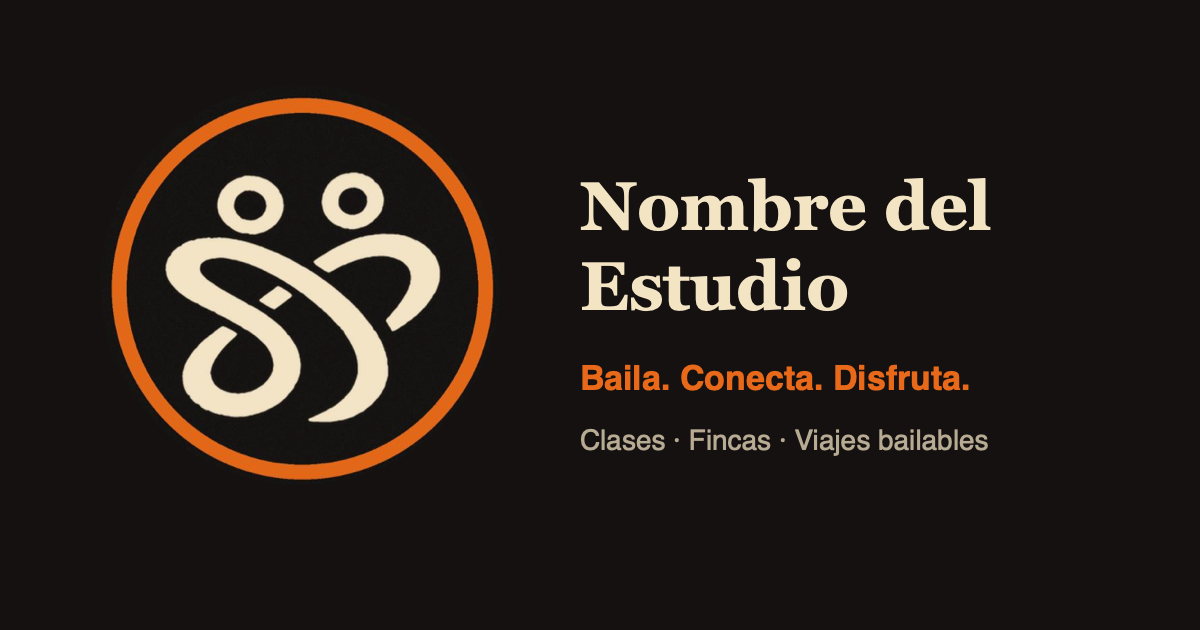
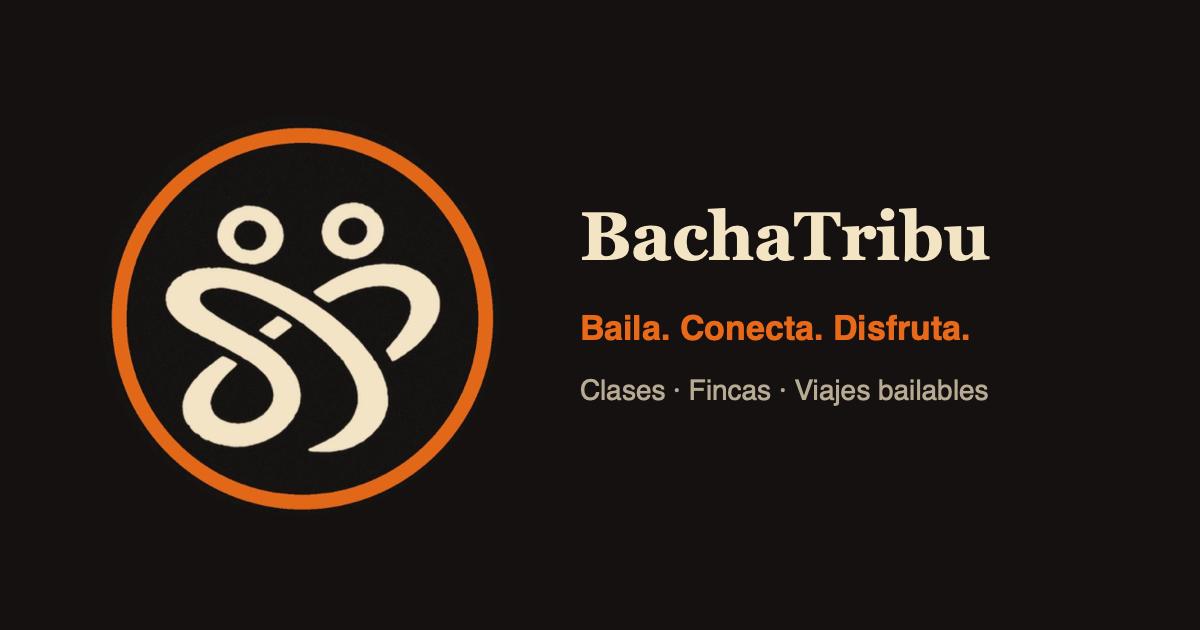
feat: renombrar a BachaTribu y usar el nombre como título principal

diff --git a/index.html b/index.html
@@ -3,7 +3,7 @@
 <head>
   <meta charset="utf-8">
   <meta name="viewport" content="width=device-width, initial-scale=1">
-  <title>Clases de baile, fincas y viajes bailables en Colombia | Nombre del Estudio</title>
+  <title>BachaTribu | Clases de baile, fincas y viajes bailables en Colombia</title>
   <meta name="description" content="Clases de salsa y bachata, planes bailables en fincas de Antioquia, socials en Bogotá y Cali, y viajes a Argentina, República Dominicana y Brasil. Agenda en Google Calendar.">
   <meta name="robots" content="index, follow, max-image-preview:large">
   <meta name="theme-color" content="#141110">
@@ -13,14 +13,14 @@
 
   <meta property="og:type" content="website">
   <meta property="og:locale" content="es_CO">
-  <meta property="og:site_name" content="Nombre del Estudio">
+  <meta property="og:site_name" content="BachaTribu">
   <meta property="og:title" content="Clases de baile, fincas y viajes bailables en Colombia">
   <meta property="og:description" content="Salsa, bachata, fincas en Antioquia, socials en Bogotá y Cali y viajes internacionales para bailar.">
   <meta property="og:url" content="https://miguelbp80.github.io/bachatribu/">
   <meta property="og:image" content="https://miguelbp80.github.io/bachatribu/assets/og-image.png">
   <meta property="og:image:width" content="1200">
   <meta property="og:image:height" content="630">
-  <meta property="og:image:alt" content="Logo de Nombre del Estudio">
+  <meta property="og:image:alt" content="Logo de BachaTribu">
   <meta name="twitter:card" content="summary_large_image">
   <meta name="twitter:title" content="Clases de baile, fincas y viajes bailables en Colombia">
   <meta name="twitter:description" content="Salsa, bachata, fincas en Antioquia, socials en Bogotá y Cali y viajes internacionales para bailar.">
@@ -30,7 +30,7 @@
   {
     "@context": "https://schema.org",
     "@type": "DanceSchool",
-    "name": "Nombre del Estudio",
+    "name": "BachaTribu",
     "description": "Clases de baile, planes en fincas de Antioquia, eventos nacionales y viajes bailables internacionales.",
     "url": "https://miguelbp80.github.io/bachatribu/",
     "logo": "https://miguelbp80.github.io/bachatribu/assets/logo.png",
@@ -47,7 +47,7 @@
   <header class="site-header">
     <a class="brand" href="#inicio" aria-label="Inicio">
       <span class="logo-circle"><img src="assets/logo.png" alt="" width="48" height="48"></span>
-      <span class="brand-name" id="studio-name">Nombre del Estudio</span>
+      <span class="brand-name" id="studio-name">BachaTribu</span>
     </a>
     <nav class="site-nav" aria-label="Principal">
       <a href="#eventos">Eventos</a>
@@ -59,8 +59,8 @@
 
   <main>
     <section class="hero" id="inicio">
-      <span class="logo-circle logo-circle--hero"><img src="assets/logo.png" alt="Logo de Nombre del Estudio" width="190" height="190"></span>
-      <h1 id="studio-title">Clases de baile, fincas y viajes bailables desde Colombia</h1>
+      <span class="logo-circle logo-circle--hero"><img src="assets/logo.png" alt="Logo de BachaTribu" width="190" height="190"></span>
+      <h1 id="studio-title">BachaTribu</h1>
       <p class="hero-tagline" id="studio-tagline">Baila. Conecta. Disfruta.</p>
       <p class="hero-description" id="studio-description">Clases para todos los niveles, planes en fincas de Antioquia, socials en Bogotá y Cali, y viajes internacionales para bailar.</p>
       <div class="hero-actions">

diff --git a/app.js b/app.js
@@ -119,7 +119,7 @@
 
   const renderStudio = ({ studio }) => {
     document.getElementById("studio-name").textContent = studio.nombre;
-    document.getElementById("studio-title").textContent = studio.titulo;
+    document.getElementById("studio-title").textContent = studio.nombre;
     document.getElementById("studio-tagline").textContent = studio.lema;
     document.getElementById("studio-description").textContent = studio.descripcion;
     document.getElementById("footer-text").textContent = `© ${new Date().getFullYear()} ${studio.nombre}`;

diff --git a/contenido.js b/contenido.js
@@ -21,8 +21,7 @@
 
 window.CONTENIDO = {
   estudio: {
-    nombre: "Nombre del Estudio",
-    titulo: "Clases de baile, fincas y viajes bailables desde Colombia",
+    nombre: "BachaTribu",
     lema: "Baila. Conecta. Disfruta.",
     descripcion:
       "Clases para todos los niveles, planes en fincas de Antioquia, socials en Bogotá y Cali, y viajes internacionales para bailar en Argentina, República Dominicana y Brasil.",
